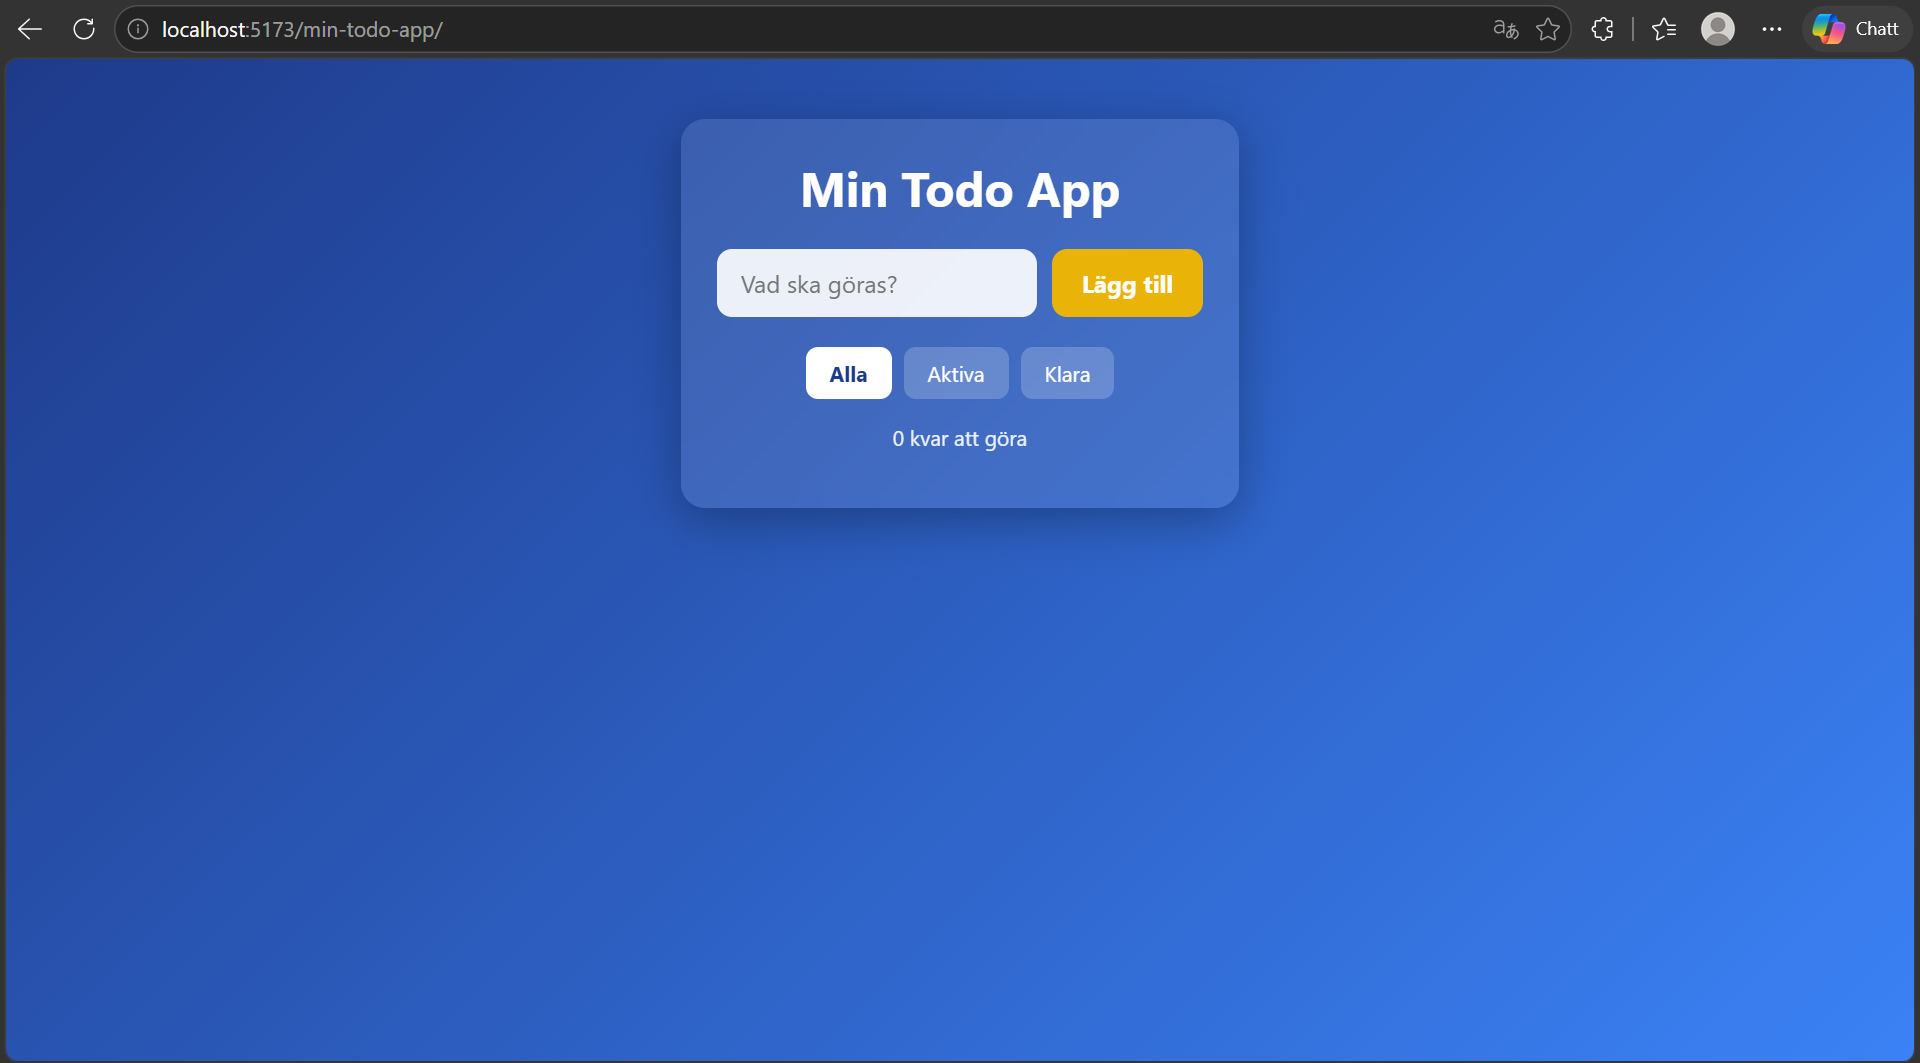
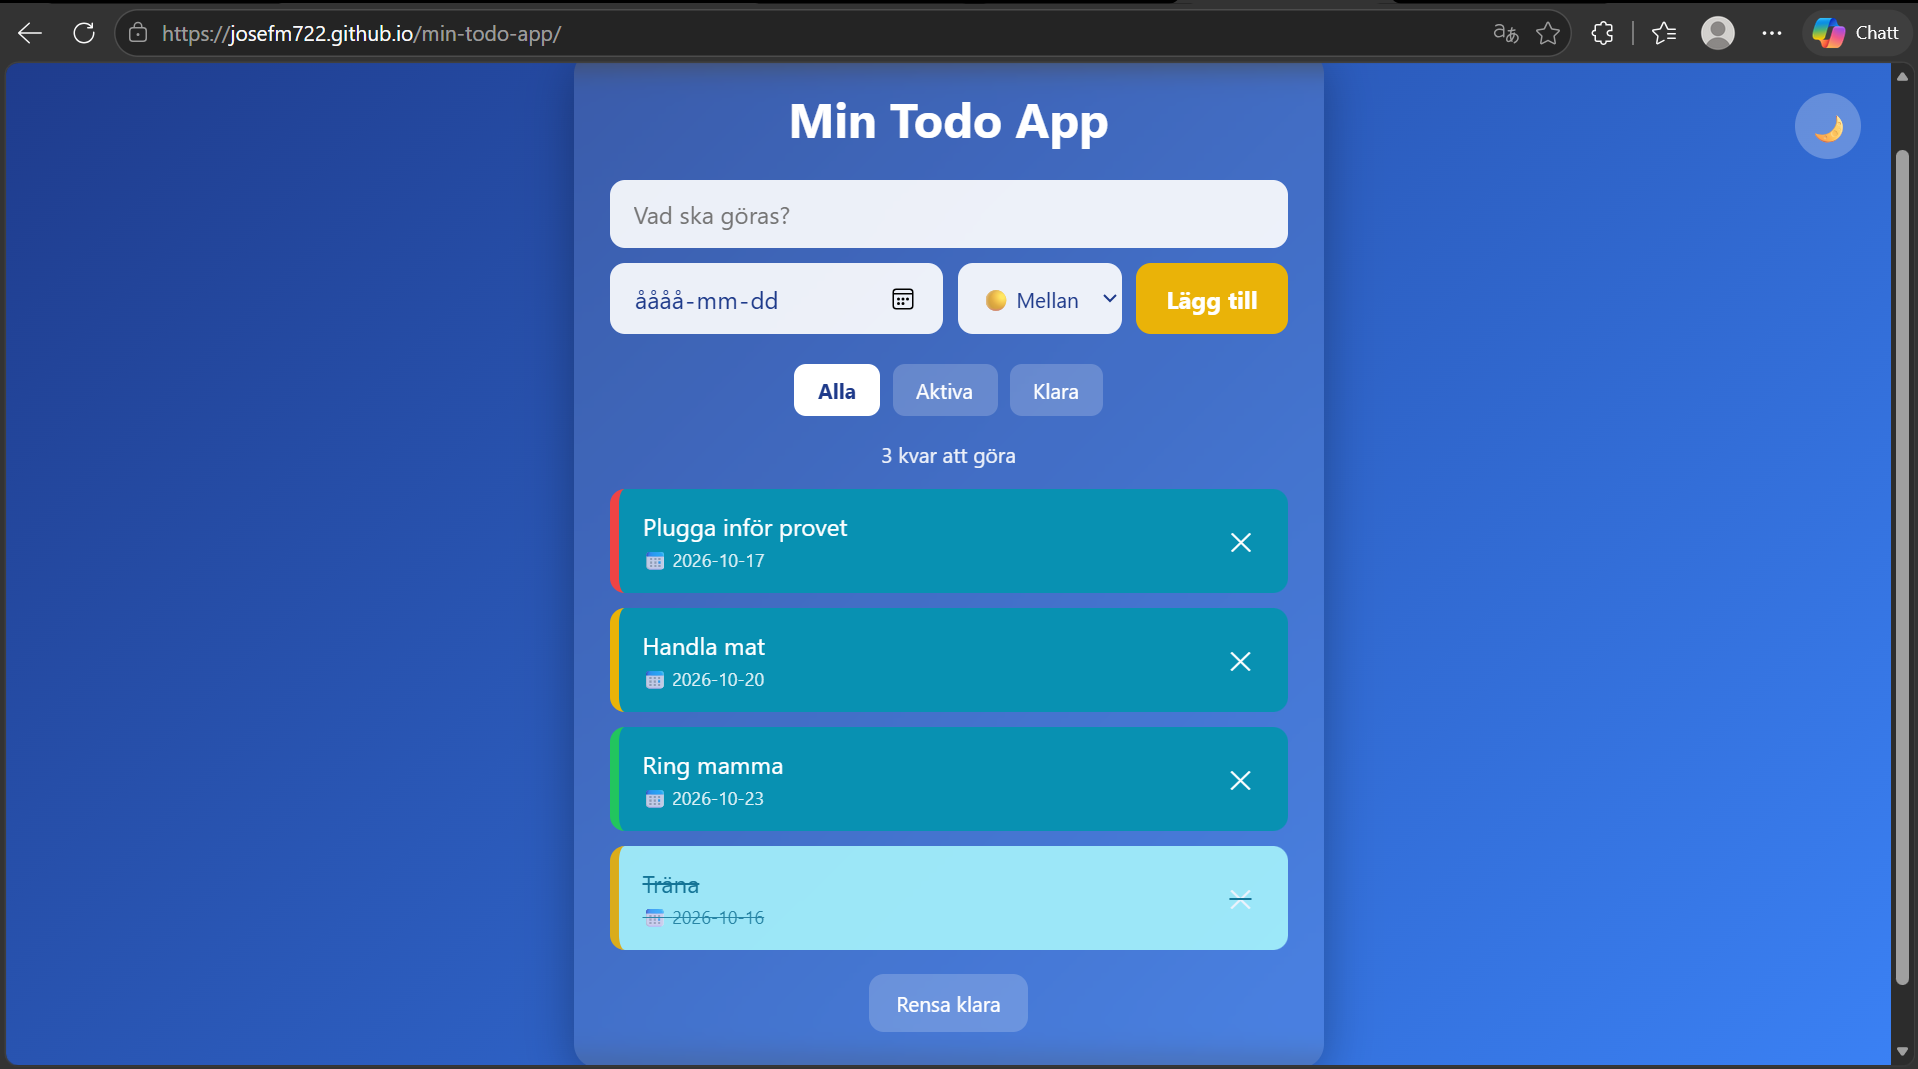
Uppdatera README och skärmbild

Changed region(s): [[0.0, 0.0, 1.0, 1.0]]

diff --git a/README.md b/README.md
@@ -9,13 +9,17 @@ En snygg och modern todo-app byggd med **React + TypeScript + Vite**.
 ## ✨ Funktioner
 
 - ➕ Lägg till todos
-- ✅ Markera som klara (blir gröna)
+- ✅ Markera som klara (blir ljusa)
+- ✏ Redigera todos (dubbelklicka)
 - 🗑 Ta bort enskilda todos
 - 🎯 Filtrera: Alla / Aktiva / Klara
 - 💾 Sparas automatiskt i localStorage
 - 🧹 Rensa alla klara med ett klick
-- 🎨 Blå bakgrund, röda aktiva, gröna klara
-- ✨ Mjuka animationer
+- 📅 Deadlines med datumväljare
+- 🎯 Prioritet (låg/mellan/hög) med färgade remsor
+- 🌙 Dark mode
+- 🖱 Drag-and-drop för att ändra ordning
+- 🎨 Turkos design med animationer
 
 ## 🛠 Teknik
 
@@ -23,6 +27,7 @@ En snygg och modern todo-app byggd med **React + TypeScript + Vite**.
 - TypeScript
 - Vite
 - CSS
+- GoatCounter (besöksstatistik)
 
 ## 🚀 Kom igång lokalt
 
